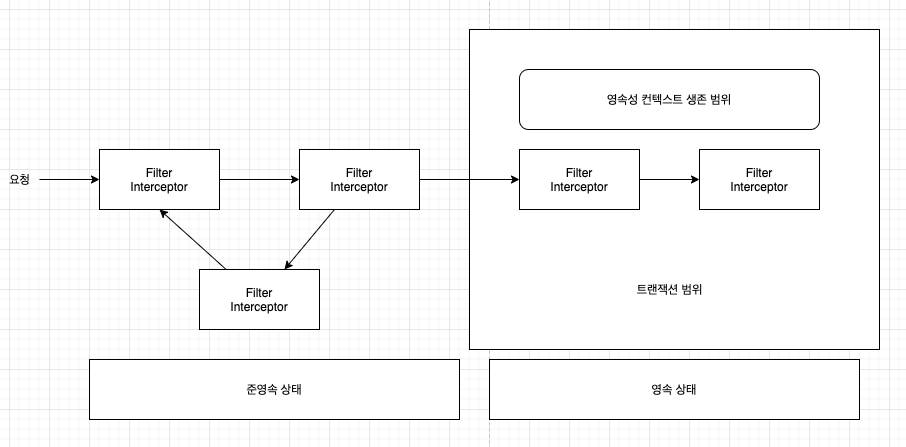
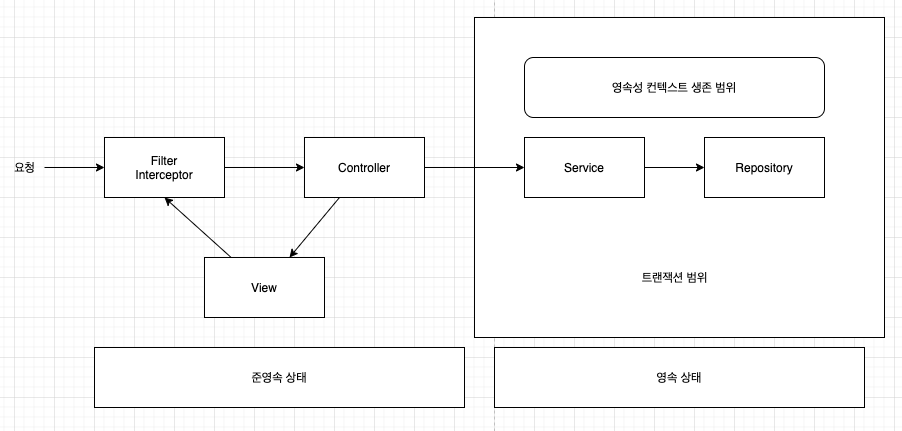
웹 애플리케이션과 영속성 관리 내용 정리2

diff --git a/database/JPA/12 .Web application and persistence management/README.md b/database/JPA/12 .Web application and persistence management/README.md
@@ -76,3 +76,186 @@ class Repository2 {
         * 스프링 컨테이너는 스레드마다 각각 다른 트랜잭션을 할당한다.
         * 즉, 같은 엔티티 매니저를 호출해도 접근하는 영속성 컨텍스트가 다르므로 멀티스레드 상황에서 안전하다.
 
+### 준영속 상태와 지연 로딩
+
+```java
+@Entity
+public class Order {
+    @Id
+    @GeneratedValue
+    private Long id;
+    
+    @ManyToOne(fetch = Fetch.LAZY)
+    private Member member;
+    
+    ...
+}
+
+...
+
+@Controller
+class OrderController {
+    ...
+    
+    public String view(Long orderId) {
+        Order order = oderService.findOne(orderId);
+        Member member = order.getMember();
+        member.getName();
+        // 지연 로딩 시 예외 발생
+        // 컨테이너 환경의 기본 적략인 트랜잭션 범위의 영속성 컨텍스트 전략을 사용하면
+        // 트랜잭션이 없는 프리젠테이션 계층에서 엔티티는 준영속이며,
+        // 변경 감지와 지연 로딩이 동작하지 않는다. 
+    }
+}
+```
+
+* 준영속 상태와 변경 감지
+    * 변경 감지는 영속성 컨텍스트가 살아 있는 서비스 계층까지만 동작
+    * 즉, 영속성 컨텍스트가 종료된 프리젠테이션 계층에서는 동작하지 않는다.
+        * 프리젠테이션 계층까지 변경 감지 기능이 있다면, 애플리케이션 계층이 가지는 책임이 모호해진다.
+        * 또한, 데이터 변경을 찾기 위해 프리젠테이션 계층까지 확인해야 하므로 유지보수가 어려워진다.
+    * 보통 변경 감지 기능은 서비스 계층에서 비즈니스 로직을 수행하면서 발생한다.
+* 준영속 상태와 지연 로딩
+    1. 뷰가 필요한 엔티티를 미리 로딩해두는 방법
+        1. 글로벌 페치 전략 수정
+        2. JPQL 패치 조인
+        3. 강제로 초기화
+    2. OSIV 를 사용해서 엔티티를 항상 영속 상태로 유지하는 방법
+
+#### 글로벌 페치 전략 수정
+
+* 가장 간단한 글로벌 패치 전략 수정은 **지연 로딩 -> 즉시 로딩** 으로 변경
+
+```java
+...
+
+// @ManyToOne(fetch = Fetch.LAZY)
+@ManyToOne(fetch = Fetch.EAGER)
+private Member member;
+
+```
+
+* 위와 같이 변경하면 애플리케이션 전체에서 이 엔티티를 로딩할 때마다 해당 전략을 사용하므로, 글로벌 페치 전략이라고 한다.
+
+#### 글로벌 페치 전랴가에 즉시 로딩 사용 시 단점
+
+1. 사용하지 않는 엔티티를 로딩한다.
+2. N + 1 문제가 발생한다.
+    * 연관된 엔티티를 로딩하는 전략이 즉시 로딩이면 데이터베이스에 JOIN 쿼리를 사용해서 한 번에 연관된 엔티티까지 조회한다.
+    
+```java
+Order order = em.find(Order.class, 1L);
+
+select o.*, m.*
+from Order o
+left outer join Member m on o.member = m.id
+where o.id = 1
+
+...
+
+List<Order> orders = em.createQuery("select o from Order o", Order.class)
+                        .getResultList();
+// 연관된 모든 엔티티를 조회한다.
+
+select * from Order;
+select * from Member where id=?
+select * from Member where id=?
+select * from Member where id=?
+...
+// EAGER 로 실행된 SQL
+```
+
+* JPA 가 JPQL 을 분석해서 SQL 을 생성할 때는 글로벌 페치 전략을 참고하지 않고 오직 JPQL 자체만 사용한다.
+* 따라서 즉시 로딩이든 지연 로딩이든 구분하지 않고 JPQL 쿼리 자체에 충실하게 SQL 을 만든다.
+* 위 상황의 내부 동작 순서
+    1. select o from order o JPQL 을 분석해서 select * from Order SQL 을 생성한다.
+    2. 데이터베이스에서 결과를 받아 Order 엔티티 인스턴스들을 생성한다.
+    3. Order.member 의 글로벌 페치 전략이 즉시 로딩이므로 order 가 로딩되는 시점에 연관된 member 도 로딩되어야 한다.
+    4. 연관된 member 를 영속성 컨텍스트에서 찾는다.
+    5. 영속성 컨텍스트에 없으면 select * from member where id=? SQL 조회한 order 엔티티 수만큼 실행한다.
+* 이러한 N + 1 문제는 JPQL 페치 조인으로 해결할 수 있다.
+
+#### JPQL 페치 조인
+
+```java
+JPQL
+select o from Order o
+select o from Order o join fetch o.member
+
+SQL
+select * from Order ...
+select o.*, m.* from Order o join Member m on o.member = m.id
+```
+
+* 페치 조인을 사용하면 SQL JOIN 을 사용해서 페치 조인 대상까지 함께 조회한다.
+* 연관된 엔티티를 이미 로딩했으므로 N+1 문제가 발생하지 않는다.
+* 페치 조인의 단점
+    * 페치 조인을 무분별하게 사용하면 화면에 맞춘 Repository 메소드가 증가한다.
+    * 이러한 현상은 프리젠테이션 계층이 데이터 접근계층을 침범하는 것이다.
+    * 또는 프리젠테이션 계층 별 repository 메소드를 생성하여 사용할 수 있지만, 이러면 view 와 repository 간의 논리적인 의존관계가 발생한다.
+    * 아니면 fetch 조인이 필요한 곳이 발생하면, 기존 연관관계를 사용하던 모든 곳에서 fetch 조인을 사용한다.
+        * 사용하지 않는 곳에서도 fetch 조인을 위한 로딩 시간이 추가되겠지만, join 을 사용해서 쿼리 한번으로 필요한 데이터를 조회하므로 성능에 미치는 영향이 미비하다.
+
+#### 강제로 초기화
+
+* 영속성 컨텍스트가 살아있을 때 프리젠테이션 계층이 필요한 엔티티를 강제로 초기화해서 반환하는 방법
+
+```java
+// 글로벌 페치 전략이 모두 Lazy 라고 가정
+
+public Order findOrder(Long id) {
+    Order order = orderRepository.findOrder(id);
+    order.getMember.getName();
+    // 프록시 객체를 강제로 초기화 한다.
+    // 영속성 컨텍스트가 살아있는 상태에서 초기화 하였으므로 준영속 상태에서도 사용할 수 있다.
+    // 하이버네이트의 경우 initialize(Entity) 메소드를 통해 프록시를 강제로 초기화 할 수 있다.
+    return order;
+}
+```
+
+#### FACADE 계층 추가
+
+![](../images/12.Transaction scope FACADE.png)
+
+* 프리젠테이션 계층과 서비스 계층 사이에 FACADE 계층을 하나 추가하는 방법.
+    * 뷰를 위한 프록시 초기화는 이곳에서 담당한다.
+    * FACADE 계층을 도입해서 서비스 계층과 프리젠테이션 계층 사이에 논리적인 의존성을 분리할 수 있다.
+* 프록시를 초기화하려면 영속성 컨텍스트가 필요하므로 FACADE 에서 트랜잭션을 시작해야 한다.
+* FACADE 계층의 역할과 특징
+    * 프리젠테이션 계층과 도메인 모델 계층 간의 논리적 의존성을 분리해준다.
+    * 프리젠테이션 계층에서 필요한 프록시 객체를 초기화 한다.
+    * 서비스 계층을 호출해서 비즈니스 로직을 실행한다.
+    * 서비스 계층을 호출해서 비즈니스 로직을 실행한다.
+    * 리포지토리를 직접 호출해서 뷰가 요구하는 엔티티를 찾는다.
+    
+```java
+class OrderFacade {
+    @Autowired OrderService orderService;
+    
+    public Order findOrder(Long id) {
+        Order order = orderService.findOrder(id);
+        order.getMember().getName();
+        // 프리젠테이션 계층이 필요한 프록시 객체를 강제로 초기화한다.
+        return order;
+    }
+}
+
+class OrderService {
+    ...
+    
+    public Order findOrder(Long id) {
+        return orderRepository.findOrder(id);
+    }
+}
+```
+
+* 위와 같이 구성하여 서비스 계층과 프리젠테이션 계층 간에 논리적 의존관계를 제거했다.
+* FACADE 의 최대 단점은 하나의 계층이 더 추가되어 더 많은 코드를 작성하게 된다는 것이다.
+
+#### 준영속 상태와 지연 로딩의 문제점
+
+* 대부분 뷰를 개발할 떄, 엔티티 클래스를 보고 개발을 하지, 초기화가 어떤 방식으로 되어있고 되었는지 확인은 잘 하지 않는다.
+* 결국 초기화되지 않은 프록시 엔티티를 조회하는 경우가 발생하고, 에러가 발생하게 된다.
+* 애플리케이션 로직과 뷰가 물리적으로는 나누어져 있지만, 논리적으로 서로 의존하는 문제때문에 이러한 문제들이 발생한다.
+* 결국, 모든 문제는 엔티티가 프리젠테이션 계층에서 준영속 상태이기 때문에 발생한다.
+    * 영속성 컨텍스트를 뷰까지 살아있게 하여서 뷰에서도 지연 로딩을 사용할 수 있는 방법이 존재하는데, 이를 OSIV 라고 한다.
